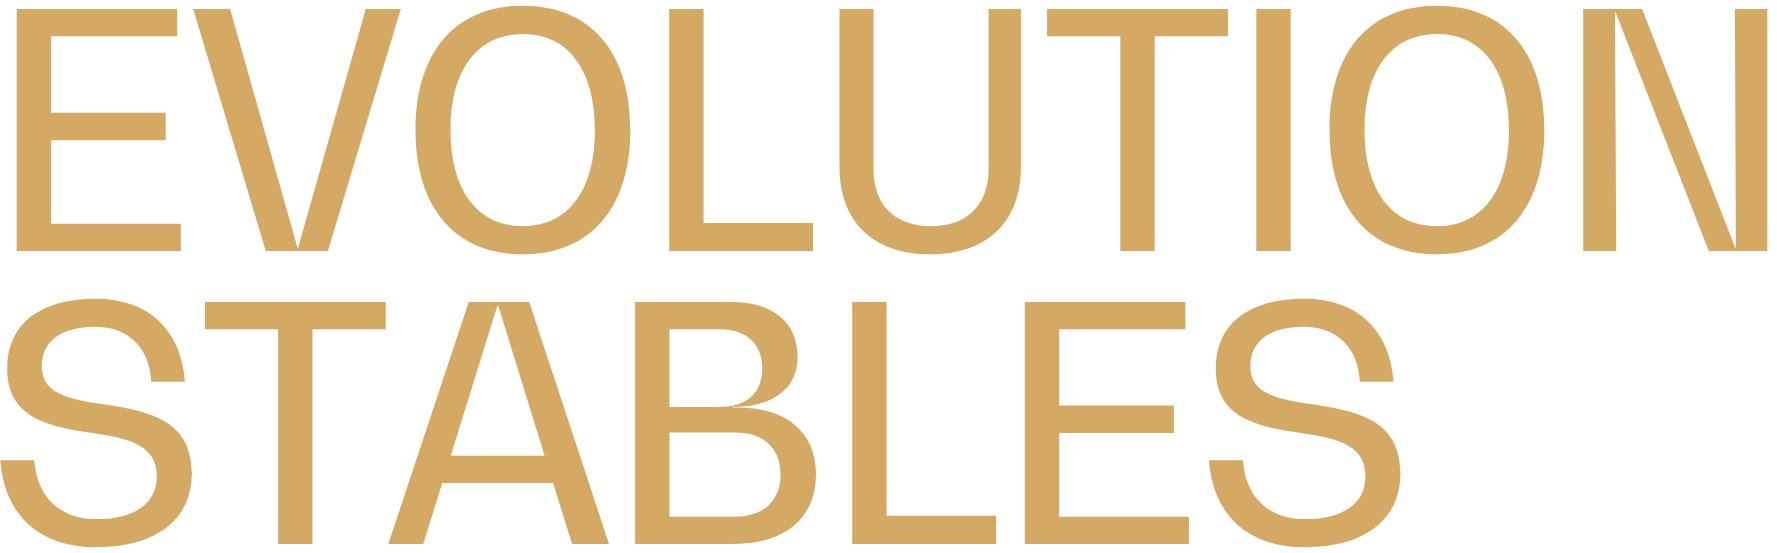
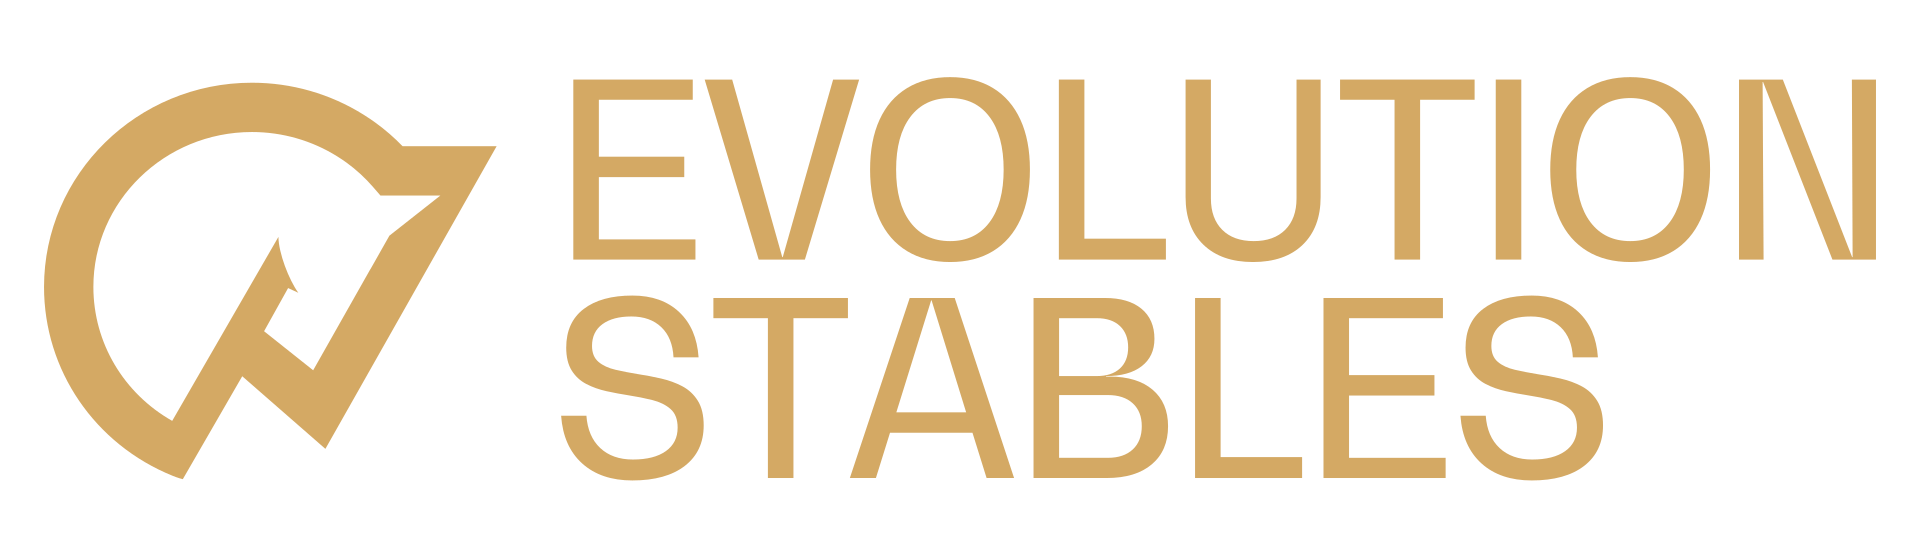
chore: brand asset refresh + Prudentia update email cleanup

diff --git a/public/updates/prudentia_tauranga_result_27june2026_email.html b/public/updates/prudentia_tauranga_result_27june2026_email.html
@@ -4,7 +4,7 @@
   <meta charset="utf-8">
   <meta name="viewport" content="width=device-width, initial-scale=1.0">
   <meta name="robots" content="noindex, nofollow">
-  <title>Prudentia — Tauranga Review | Evolution Stables</title>
+  <title>Prudentia — Tauranga — Sixth | Evolution Stables</title>
   <link rel="preconnect" href="https://fonts.googleapis.com">
   <link rel="preconnect" href="https://fonts.gstatic.com" crossorigin>
   <link href="https://fonts.googleapis.com/css2?family=Playfair+Display:ital,wght@0,400;1,400&family=Inter:wght@400;500;600;700;800&display=swap" rel="stylesheet">
@@ -12,40 +12,24 @@
     body, table, td, p, a { -ms-text-size-adjust: 100%; -webkit-text-size-adjust: 100%; }
     img { -ms-interpolation-mode: bicubic; max-width: 100%; height: auto; display: block; }
     table { border-collapse: collapse; }
-    * { box-sizing: border-box; }
-    @media only screen and (max-width: 600px) {
-      .outer-padding { padding: 16px 12px !important; }
-      .container-padding,
-      .signoff-padding,
-      .footer-padding { padding-left: 24px !important; padding-right: 24px !important; }
-      .headline-text { font-size: 34px !important; line-height: 1.12 !important; }
-      .lead-text { font-size: 17px !important; text-align: left !important; }
-      .body-text { text-align: left !important; }
-      .footer-logo-cell { display: block !important; width: 100% !important; text-align: left !important; }
-      .footer-social-cell { display: block !important; width: 100% !important; text-align: center !important; padding-top: 20px !important; }
-      .footer-social-table { margin: 0 auto !important; }
-      .masthead-cell { display: block !important; width: 100% !important; text-align: left !important; padding-top: 16px !important; }
-    }
   </style>
 </head>
-<body style="margin: 0; padding: 0; background-color: #f4f2ee; font-family: 'Inter', Helvetica, Arial, sans-serif; -webkit-font-smoothing: antialiased;">
+<body style="margin: 0; padding: 0; background-color: #f4f2ee; font-family: 'Inter', Helvetica, Arial, sans-serif;">
   <div style="display: none; font-size: 1px; color: #ffffff; line-height: 1px; max-height: 0; max-width: 0; opacity: 0; overflow: hidden;">
     Prudentia finished sixth at Tauranga — 4.59L behind winner Rocking. Full yard report to follow.
   </div>
-
   <table role="presentation" border="0" cellpadding="0" cellspacing="0" width="100%" style="background-color: #f4f2ee;">
     <tr>
-      <td class="outer-padding" align="center" style="padding: 28px 16px;">
+      <td align="center" style="padding: 28px 16px;">
         <table role="presentation" border="0" cellpadding="0" cellspacing="0" width="100%" style="max-width: 600px; background-color: #ffffff; border-radius: 14px; overflow: hidden; box-shadow: 0 24px 80px rgba(0,0,0,0.08);">
-
           <tr>
-            <td class="container-padding" style="padding: 48px 48px 24px 48px; text-align: left;">
+            <td style="padding: 48px 48px 24px 48px; text-align: left;">
               <table role="presentation" border="0" cellpadding="0" cellspacing="0" width="100%" style="margin-bottom: 28px;">
                 <tr>
-                  <td align="left" valign="top" style="vertical-align: top;">
+                  <td align="left" valign="top">
                     <img src="/updates/evolution-stables-logo-header.jpg" alt="Evolution Stables" width="280" style="width: 280px; max-width: 100%; height: auto; border: 0;">
                   </td>
-                  <td class="masthead-cell" align="right" valign="top" style="vertical-align: top; font-family: 'Inter', sans-serif; font-size: 11px; font-weight: 500; color: #666666; text-align: right; line-height: 1.5; letter-spacing: 0.04em;">
+                  <td align="right" valign="top" style="font-family: 'Inter', sans-serif; font-size: 11px; font-weight: 500; color: #666666; text-align: right; line-height: 1.5; letter-spacing: 0.04em;">
                     VOL. 27 // NO. 10<br>
                     DATE: 28.06.2026
                   </td>
@@ -59,90 +43,45 @@
                   </td>
                 </tr>
               </table>
-              <h1 class="headline-text" style="margin: 0 0 20px 0; font-family: 'Playfair Display', Georgia, serif; font-size: 40px; font-weight: 400; line-height: 1.1; color: #000000; letter-spacing: -0.5px;">
-                Tauranga Review
+              <h1 style="margin: 0 0 20px 0; font-family: 'Playfair Display', Georgia, serif; font-size: 40px; font-weight: 400; line-height: 1.1; color: #000000; letter-spacing: -0.5px;">
+                Tauranga &mdash; <span style="color: #d4a964; font-style: italic; font-weight: 400;">Sixth</span>
               </h1>
-              <p class="lead-text" style="margin: 0; font-family: 'Inter', sans-serif; font-size: 18px; font-weight: 500; line-height: 1.5; color: #222222; text-align: justify;">
+              <p style="margin: 0; font-family: 'Inter', sans-serif; font-size: 18px; font-weight: 500; line-height: 1.5; color: #222222; text-align: justify;">
                 Prudentia finished <strong>sixth</strong> in Race 7 at Tauranga &mdash; BM75 over 1400m on a Heavy 10 track.
               </p>
             </td>
           </tr>
-
           <tr>
-            <td class="container-padding" style="padding: 0 48px 24px 48px;">
-              <img src="/updates/prudentia_tauranga_finish_27june2026.png" alt="Prudentia crossing the line at Tauranga" width="504" style="width: 100%; border-radius: 8px; border: 0;">
-              <p style="margin: 12px 0 0 0; font-family: 'Inter', sans-serif; font-size: 9px; font-weight: 600; color: #999999; text-transform: uppercase; letter-spacing: 0.2em;">
-                Prudentia &mdash; sixth, 4.59L &middot; Barrier 1 &middot; 54kg &middot; Masa Hashizume
+            <td style="padding: 8px 48px 32px 48px;">
+              <p style="margin: 0 0 8px 0; font-family: 'Inter', sans-serif; font-size: 9px; font-weight: 600; color: #999999; text-transform: uppercase; letter-spacing: 0.2em;">
+                Prudentia &mdash; 6th, 4.59L &middot; Barrier 1 &middot; 54kg &middot; Masa Hashizume
               </p>
-            </td>
-          </tr>
-
-          <tr>
-            <td class="container-padding" style="padding: 8px 48px 32px 48px;">
-              <p class="body-text" style="margin: 0 0 18px 0; font-family: 'Inter', sans-serif; font-size: 15px; line-height: 1.75; color: #1a1a1a; text-align: justify;">
-                <strong>Rocking</strong> won by 0.89 lengths. Prudentia crossed the line 4.59 lengths back in sixth, from Barrier 1 at 54kg with Masa Hashizume in the saddle.
+              <p style="margin: 0 0 18px 0; font-family: 'Inter', sans-serif; font-size: 15px; line-height: 1.75; color: #1a1a1a; text-align: justify;">
+                <strong>Rocking</strong> won by 0.89L. Prudentia crossed the line 4.59L back in sixth, from Barrier 1 at 54kg with Masa Hashizume in the saddle.
               </p>
-              <p class="body-text" style="margin: 0 0 24px 0; font-family: 'Inter', sans-serif; font-size: 15px; line-height: 1.75; color: #1a1a1a; text-align: justify;">
+              <p style="margin: 0 0 24px 0; font-family: 'Inter', sans-serif; font-size: 15px; line-height: 1.75; color: #1a1a1a; text-align: justify;">
                 We&rsquo;ll share a fuller report once we have the trainer and jockey comments from the yard.
               </p>
               <a href="https://www.tab.co.nz/racing/tauranga/67093530-c5fc-4dc8-9217-31c122124446" target="_blank" style="font-family: 'Inter', sans-serif; font-size: 13px; font-weight: 600; color: #000000; text-decoration: none; border-bottom: 1px solid #d4a964; padding-bottom: 2px;">
-                Race 7 results on TAB &rarr;
+                Race 7 review on TAB &rarr;
               </a>
             </td>
           </tr>
-
           <tr>
-            <td class="signoff-padding" style="padding: 0 48px 48px 48px; text-align: left;">
+            <td style="padding: 0 48px 48px 48px; text-align: left;">
               <div style="width: 32px; height: 1px; background-color: #d4a964; margin-bottom: 24px;">&nbsp;</div>
               <img src="/updates/AB_Signiture.png" alt="Alex Baddeley" width="96" style="margin-bottom: 12px; border: 0;">
               <p style="margin: 0; font-family: 'Inter', sans-serif; font-size: 15px; font-weight: 700; color: #111111;">Alex Baddeley</p>
               <p style="margin: 4px 0 0 0; font-family: 'Inter', sans-serif; font-size: 13px; color: #888888;">Evolution Stables</p>
             </td>
           </tr>
-
           <tr>
-            <td class="footer-padding" style="background-color: #000000; padding: 48px 48px 48px 48px; border-top: 1px solid #1a1a1a;">
-              <div style="text-align: center; margin-bottom: 36px;">
-                <h2 style="margin: 0 0 12px 0; font-family: 'Playfair Display', Georgia, serif; font-size: 26px; font-weight: 300; color: #ffffff; line-height: 1.25; letter-spacing: -0.01em;">
-                  The Future of <span style="color: #d4a964; font-style: italic;">Ownership</span><br>Has Arrived
-                </h2>
-                <p style="margin: 0; font-family: 'Inter', sans-serif; font-size: 9px; font-weight: 600; color: #666666; text-transform: uppercase; letter-spacing: 0.22em;">
-                  Digital Syndication, by Evolution Stables
-                </p>
-              </div>
-              <table role="presentation" border="0" cellpadding="0" cellspacing="0" width="100%" style="padding-top: 18px;">
-                <tr>
-                  <td class="footer-logo-cell" align="left" valign="middle" style="width: 50%;">
-                    <a href="https://evolutionstables.nz" target="_blank" style="text-decoration: none; display: inline-block;">
-                      <img src="/updates/EvolutionStables-Mono-White.png" alt="Evolution Stables" width="20" height="20" style="height: 20px; width: auto; max-width: 100%; display: block; opacity: 0.55; border: 0;">
-                    </a>
-                  </td>
-                  <td class="footer-social-cell" align="right" valign="middle" style="width: 50%;">
-                    <table role="presentation" class="footer-social-table" border="0" cellpadding="0" cellspacing="0" align="right">
-                      <tr>
-                        <td style="padding-left: 20px;">
-                          <a href="mailto:[email redacted]" style="text-decoration: none; display: inline-block;">
-                            <svg viewBox="0 0 24 24" width="18" height="18" style="width: 18px; height: 18px; display: block; fill: #8c8c8c;"><path d="M20 4H4c-1.1 0-1.99.9-1.99 2L2 18c0 1.1.9 2 2 2h16c1.1 0 2-.9 2-2V6c0-1.1-.9-2-2-2zm0 4l-8 5-8-5V6l8 5 8-5v2z"/></svg>
-                          </a>
-                        </td>
-                        <td style="padding-left: 20px;">
-                          <a href="https://www.linkedin.com/in/alex-baddeley/" target="_blank" style="text-decoration: none; display: inline-block;">
-                            <svg viewBox="0 0 24 24" width="17" height="17" style="width: 17px; height: 17px; display: block; fill: #8c8c8c;"><path d="M4.98 3.5C4.98 4.88 3.88 6 2.5 6S0 4.88 0 3.5 1.12 1 2.5 1 4.98 2.12 4.98 3.5zM0 8h5v16H0V8zm8.5 0h4.8v2.2h.07c.67-1.27 2.3-2.6 4.73-2.6 5.06 0 6 3.33 6 7.66V24h-5v-7.3c0-1.74-.03-3.98-2.43-3.98-2.43 0-2.8 1.9-2.8 3.86V24h-5V8z"/></svg>
-                          </a>
-                        </td>
-                        <td style="padding-left: 20px;">
-                          <a href="https://x.com/EvolutionStable" target="_blank" style="text-decoration: none; display: inline-block;">
-                            <svg viewBox="0 0 24 24" width="16" height="16" style="width: 16px; height: 16px; display: block; fill: #8c8c8c;"><path d="M18.244 2.25h3.308l-7.227 8.26 8.502 11.24H16.17l-5.214-6.817L4.99 21.75H1.68l7.73-8.835L1.254 2.25H8.08l4.713 6.231zm-1.161 17.52h1.833L7.084 4.126H5.117z"/></svg>
-                          </a>
-                        </td>
-                      </tr>
-                    </table>
-                  </td>
-                </tr>
-              </table>
+            <td style="background-color: #000000; padding: 40px 48px; text-align: center;">
+              <p style="margin: 0; font-family: 'Inter', sans-serif; font-size: 9px; font-weight: 600; color: #666666; text-transform: uppercase; letter-spacing: 0.22em;">
+                Digital Syndication, by Evolution Stables
+              </p>
             </td>
           </tr>
-
         </table>
       </td>
     </tr>